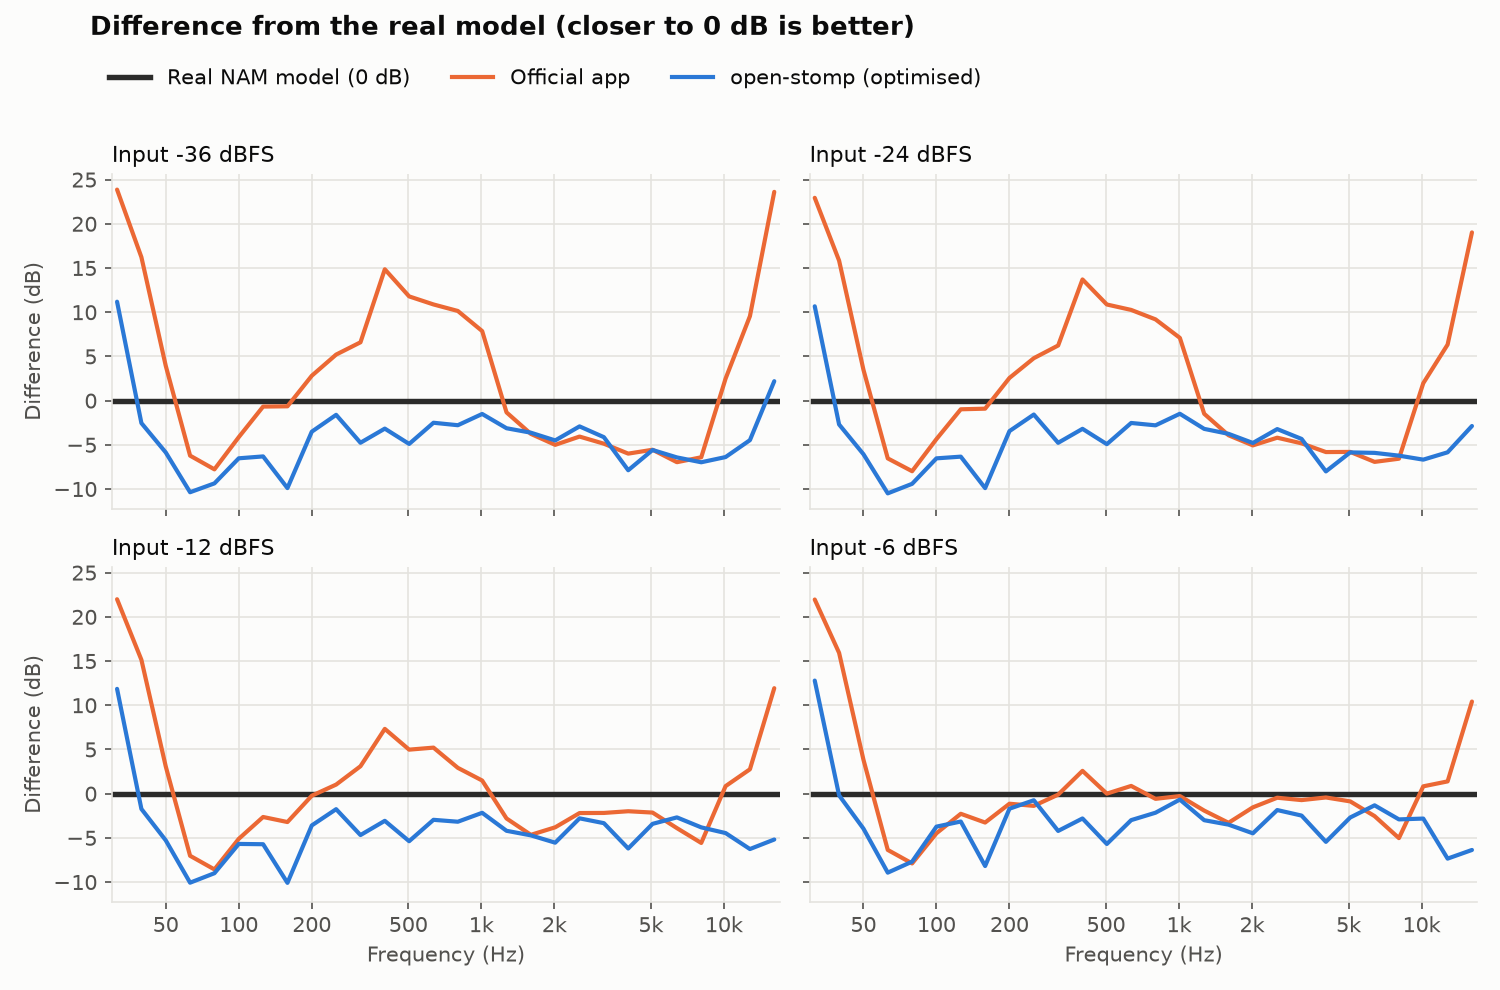
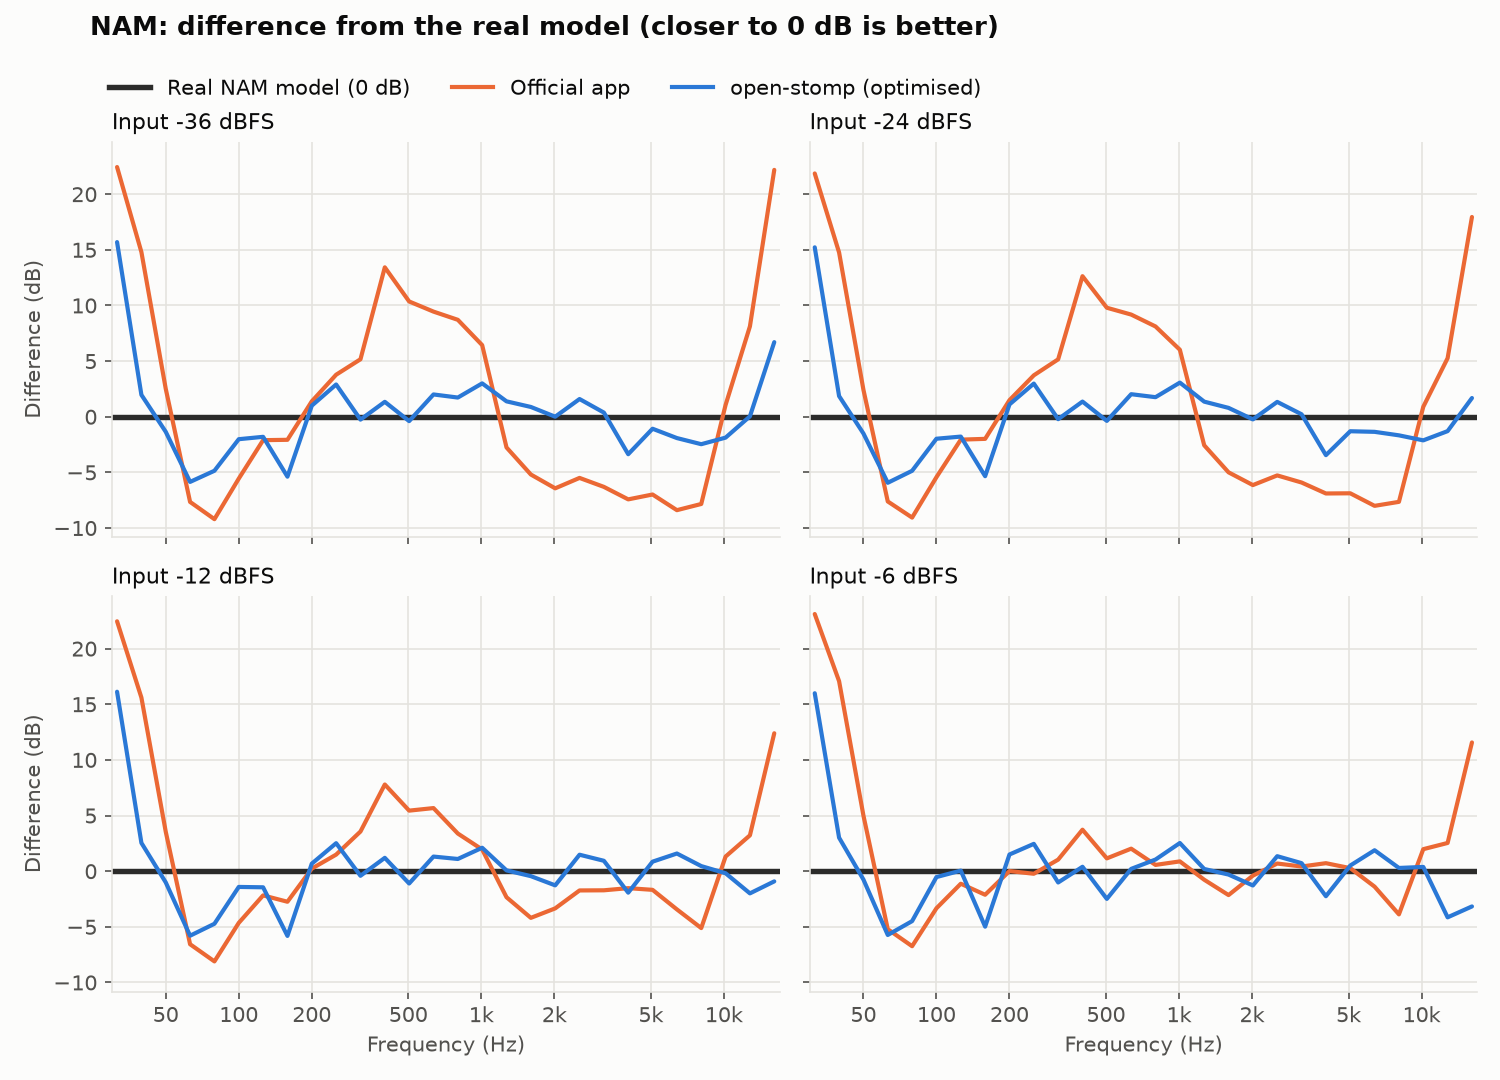
README: level-matched NAM graphs; IR graphs against the full IR file
The NAM difference graph showed open-stomp ~4 dB low everywhere: a level offset
from recordings made before import normalisation, not a tone error. Every curve
is now level-matched over 100 Hz - 8 kHz. Adds the IR re-amp results (two
Ampeg SVT cab IRs) against the full IR files.

diff --git a/tools/pedalsim/readme_plots.py b/tools/pedalsim/readme_plots.py
@@ -1,8 +1,12 @@
-"""Frequency-response graphs for the README: the real NAM model, the official app's conversion and
-open-stomp's optimised conversion, as recorded from the pedal.
+"""Frequency-response graphs for the README, as recorded from the pedal:
+  NAM: the real model, the official app's conversion and open-stomp's optimised conversion;
+  IR:  the full IR file in software, the official app's upload and open-stomp's optimised upload.
+
+Every curve is level-matched to the reference over 100 Hz - 8 kHz, so the graphs compare tone only. Import
+level is handled separately (NAM normalisation, the IR gain rule); the offsets that were removed are printed.
 
 usage: readme_plots.py            (re-extract from the local recordings, then plot)
-       readme_plots.py --cached   (plot from results/svt_g10_responses.json, no recordings needed)
+       readme_plots.py --cached   (plot from results/*.json, no recordings needed)
 """
 import json, sys
 from pathlib import Path
@@ -13,13 +17,24 @@ import matplotlib.pyplot as plt
 
 HERE = Path(__file__).resolve().parent
 LIB = HERE.parents[1]
-CACHE = HERE / "results" / "svt_g10_responses.json"
+NAM_CACHE = HERE / "results" / "svt_g10_responses.json"
+IR_CACHE = HERE / "results" / "ir_cab_responses.json"
 OUT = LIB / "docs" / "images"
 LEVELS = ("sweep -36", "sweep -24", "sweep -12", "sweep -6")
+# (title, file, official run, open-stomp run) from reamp/ir_cab
+IRS = (("Ampeg 8x10 57 AH", "Ampeg 8x10 57 AH.wav", "A57", "O57"),
+       ("Ampeg SVT Neumann", "Ampeg SVT Neumann.wav", "ANEU", "ONEU"))
+BANDS = 31.5 * 2 ** (np.arange(28) / 3)
+
+
+def third_octaves(h, n=1 << 16):
+    H = np.abs(np.fft.rfft(h, n)) ** 2; f = np.fft.rfftfreq(n, 1 / 48000)
+    return [float(10 * np.log10(np.mean(H[(f >= b / 2 ** (1 / 6)) & (f < b * 2 ** (1 / 6))]) + 1e-30)) for b in BANDS]
+
 
 if "--cached" not in sys.argv:
     sys.path.insert(0, str(HERE))
-    from paths import D
+    from paths import D, IRS as IR_DIR
     F = json.load(open(D + "reamp/svt_g10/nam_features.json"))
     rec = json.load(open(D + "reamp/svt_g10_rust/features.json"))   # recorded in one session
     off = F["offset_db"]
@@ -30,18 +45,36 @@ if "--cached" not in sys.argv:
             "real": {k: (np.array(F["nam"][k]) + off).tolist() for k in LEVELS},
             "official": {k: rec["A1"][k] for k in LEVELS},
             "open-stomp": {k: rec["R1"][k] for k in LEVELS}}
-    CACHE.parent.mkdir(exist_ok=True)
-    json.dump(data, open(CACHE, "w"), indent=1)
-data = json.load(open(CACHE))
-bands = np.array(data["bands"])
+    NAM_CACHE.parent.mkdir(exist_ok=True)
+    json.dump(data, open(NAM_CACHE, "w"), indent=1)
 
-# light surface, recessive axes; real model = neutral reference, then categorical slots 1 and 2
+    from open_stomp import ir
+    R = Path(D) / "reamp" / "ir_cab"
+    data = {"bands": BANDS.tolist(),
+            "note": "1/3-octave response, dB. 'real' is the full IR file at 48 kHz in software; the uploads are "
+                    "the pedal's CAB block measured by sweep (-24 dBFS), divided by the dry rig path.",
+            "irs": {}}
+    for title, wav, a, o in IRS:
+        rate, ch = ir.load_wav(str(Path(IR_DIR) / wav))
+        data["irs"][title] = {"real": third_octaves(np.array(ir.resample(ch[0], rate, 48000), float)),
+                              "official": third_octaves(np.load(R / f"rel_{a}_-24.npy")),
+                              "open-stomp": third_octaves(np.load(R / f"rel_{o}_-24.npy"))}
+    json.dump(data, open(IR_CACHE, "w"), indent=1)
+
+# light surface, recessive axes; the reference = neutral ink, then categorical slots 1 and 2
 SURFACE, INK, MUTED, GRID = "#fcfcfb", "#0b0b0b", "#52514e", "#e4e3df"
-SERIES = [("real", "Real NAM model", "#2b2b2a", 2.6),
-          ("official", "Official app", "#eb6834", 2.0),
-          ("open-stomp", "open-stomp (optimised)", "#2a78d6", 2.0)]
+REF = "#2b2b2a"
+CONVERSIONS = [("official", "Official app", "#eb6834"), ("open-stomp", "open-stomp (optimised)", "#2a78d6")]
 plt.rcParams.update({"font.family": "sans-serif", "font.size": 10, "text.color": INK, "axes.labelcolor": MUTED,
                      "xtick.color": MUTED, "ytick.color": MUTED, "axes.edgecolor": GRID})
+
+
+def matched(bands, y, ref):
+    """y shifted so its mean over 100 Hz - 8 kHz equals the reference's; and the shift."""
+    m = (bands >= 100) & (bands <= 8000)
+    shift = float(np.mean(ref[m] - y[m]))
+    return y + shift, shift
+
 
 def style(ax, title):
     ax.set_facecolor(SURFACE); ax.set_xscale("log"); ax.set_xlim(30, 17000)
@@ -51,33 +84,49 @@ def style(ax, title):
     for s in ("top", "right"): ax.spines[s].set_visible(False)
     ax.set_title(title, loc="left", fontsize=10.5, color=INK)
 
-def figure(diff, path, title, ylabel):
-    fig, axes = plt.subplots(2, 2, figsize=(10, 6.6), sharex=True, sharey=True, facecolor=SURFACE)
-    for ax, k in zip(axes.flat, LEVELS):
-        style(ax, f"Input {k.split()[1]} dBFS")
+
+def figure(panels, bands, path, title, ref_label, diff, shape):
+    """panels: [(panel title, {"real": .., "official": .., "open-stomp": ..})]"""
+    rows, cols = shape
+    fig, axes = plt.subplots(rows, cols, figsize=(10, 3.3 * rows + 0.6), sharex=True, sharey=True,
+                             facecolor=SURFACE, squeeze=False)
+    for ax, (name, curves) in zip(axes.flat, panels):
+        style(ax, name)
+        ref = np.array(curves["real"])
         if diff:
-            ax.axhline(0, color="#2b2b2a", lw=2.6)
-        for key, label, color, lw in SERIES:
-            y = np.array(data[key][k])
-            if diff:
-                if key == "real": continue
-                y = y - np.array(data["real"][k])
-            ax.plot(bands, y, color=color, lw=lw, label=label, solid_capstyle="round")
-    for ax in axes[1]: ax.set_xlabel("Frequency (Hz)")
-    for ax in axes[:, 0]: ax.set_ylabel(ylabel)
-    if diff:
-        handles = [plt.Line2D([], [], color="#2b2b2a", lw=2.6, label="Real NAM model (0 dB)")] + \
-                  [plt.Line2D([], [], color=c, lw=lw, label=l) for key, l, c, lw in SERIES if key != "real"]
-    else:
-        handles = [plt.Line2D([], [], color=c, lw=lw, label=l) for _, l, c, lw in SERIES]
-    fig.legend(handles=handles, loc="upper left", bbox_to_anchor=(0.06, 0.95), ncol=3, frameon=False)
-    fig.suptitle(title, x=0.06, y=0.985, ha="left", fontsize=12.5, color=INK, weight="bold")
-    fig.tight_layout(rect=(0, 0, 1, 0.925))
+            ax.axhline(0, color=REF, lw=2.6)
+        else:
+            ax.plot(bands, ref, color=REF, lw=2.6, solid_capstyle="round")
+        for key, label, color in CONVERSIONS:
+            y, shift = matched(bands, np.array(curves[key]), ref)
+            if diff: print(f"  {path.stem} | {name} | {label}: level shifted {shift:+.1f} dB, "
+                           f"rms error {np.sqrt(np.mean((y - ref) ** 2)):.2f} dB")
+            ax.plot(bands, y - ref if diff else y, color=color, lw=2.0, solid_capstyle="round")
+    for ax in axes[-1]: ax.set_xlabel("Frequency (Hz)")
+    for ax in axes[:, 0]: ax.set_ylabel("Difference (dB)" if diff else "Level (dB, matched)")
+    handles = [plt.Line2D([], [], color=REF, lw=2.6, label=ref_label + (" (0 dB)" if diff else ""))] + \
+              [plt.Line2D([], [], color=c, lw=2.0, label=l) for _, l, c in CONVERSIONS]
+    h = 3.3 * rows + 0.6   # header in inches from the top: title, legend, then the panels
+    fig.text(0.06, 1 - 0.1 / h, title, ha="left", va="top", fontsize=12.5, color=INK, weight="bold")
+    fig.legend(handles=handles, loc="upper left", bbox_to_anchor=(0.06, 1 - 0.4 / h), ncol=3, frameon=False)
+    fig.tight_layout(rect=(0, 0, 1, 1 - 0.6 / h))
     fig.savefig(path, dpi=150, facecolor=SURFACE); plt.close(fig)
     print("wrote", path)
 
+
 OUT.mkdir(parents=True, exist_ok=True)
-figure(False, OUT / "nam-frequency-response.png",
-       "Frequency response on the pedal: Ampeg SVT bass model", "Output level (dB)")
-figure(True, OUT / "nam-frequency-error.png",
-       "Difference from the real model (closer to 0 dB is better)", "Difference (dB)")
+nam = json.load(open(NAM_CACHE))
+nb = np.array(nam["bands"])
+panels = [(f"Input {k.split()[1]} dBFS", {s: nam[s][k] for s in ("real", "official", "open-stomp")}) for k in LEVELS]
+figure(panels, nb, OUT / "nam-frequency-response.png",
+       "NAM on the pedal: Ampeg SVT bass model (levels matched)", "Real NAM model", False, (2, 2))
+figure(panels, nb, OUT / "nam-frequency-error.png",
+       "NAM: difference from the real model (closer to 0 dB is better)", "Real NAM model", True, (2, 2))
+
+irs = json.load(open(IR_CACHE))
+ib = np.array(irs["bands"])
+panels = list(irs["irs"].items())
+figure(panels, ib, OUT / "ir-frequency-response.png",
+       "IR on the pedal: Ampeg SVT cab IRs (levels matched)", "Full IR file", False, (1, 2))
+figure(panels, ib, OUT / "ir-frequency-error.png",
+       "IR: difference from the full IR file (closer to 0 dB is better)", "Full IR file", True, (1, 2))

diff --git a/tools/pedalsim/paths.py b/tools/pedalsim/paths.py
@@ -5,6 +5,7 @@ PEDALSIM_DATA   directory with `reamp/` (recordings, fits, results) and `namconv
                 dumps from open-stomp-manager `tools/namconv`); default: a sibling open-stomp-manager
                 checkout's `analysis/extracted/`
 PEDALSIM_MODEL  the .nam model the analysis was done on (Ampeg SVT "Gain 10 Ultra Lo and Hi MD 421")
+PEDALSIM_IRS    directory with the IRs re-amped in `reamp/ir_cab` (the Ampeg SVT 8x10 capture pack)
 """
 import os
 from pathlib import Path
@@ -14,3 +15,5 @@ D = os.environ.get("PEDALSIM_DATA", str(_ROOT.parent / "open-stomp-manager" / "a
 R = D + "reamp/svt_g10/"
 SVT = os.environ.get("PEDALSIM_MODEL", os.path.expanduser(
     "~/Desktop/Ampeg SVT Classic with 6x10/Ampeg SVT - Gain 10 Ultra Lo and Hi MD 421.nam"))
+IRS = os.environ.get("PEDALSIM_IRS", os.path.expanduser(
+    "~/Desktop/namAndIR/Ampeg SVT - DI - 4x10 - 8x10 - the definitive speaker capture collection(1)"))

diff --git a/README.md b/README.md
@@ -122,20 +122,45 @@ optimises the filters until the simulated pedal sounds like the model. This is t
 `Device::import_nam_file`; it takes about a minute per model.
 
 Re-amped through the pedal and compared with the real model in software (Ampeg SVT bass model; rms error over
-1/3-octave sweep responses, note levels and harmonics; lower is better):
+1/3-octave sweep responses, note levels and harmonics, levels as uploaded before normalisation; lower is better):
 
 | Upload | Frequency response | Note level | Harmonics | Overall |
 |---|---|---|---|---|
 | Official app | 7.96 dB | 9.64 dB | 13.11 dB | **9.32 dB** |
 | open-stomp, optimised (two runs) | 5.56 dB | 4.23 dB | 10.57–11.00 dB | **6.72–6.85 dB** |
 
-![Frequency response on the pedal: the real NAM model, the official app's conversion and open-stomp's](docs/images/nam-frequency-response.png)
+![NAM frequency response on the pedal: the real model, the official app's conversion and open-stomp's](docs/images/nam-frequency-response.png)
 
-![Difference from the real model for both conversions](docs/images/nam-frequency-error.png)
+![NAM: difference from the real model for both conversions](docs/images/nam-frequency-error.png)
 
-The official conversion is off by up to 15–24 dB in the deep bass, the 400 Hz–1 kHz mids at low levels and the top
-octave. open-stomp follows the model's shape much more closely. It is still 3–5 dB quiet overall and short on the
-60–100 Hz resonance, which 512 taps can't fully reach. Details: [docs/05](docs/05-uploads-nam-ir.md#optimised-conversion).
+The graphs compare tone, so each upload is level-matched to the model over 100 Hz–8 kHz. Level is set separately: by
+default an import is normalised to the built-in amps' level. With levels matched, the official conversion is off by
+up to 15–24 dB in the deep bass, the 400 Hz–1 kHz mids at low input levels and the top octave (6.4–9.2 dB rms).
+open-stomp stays within about 5 dB from 50 Hz to 10 kHz (3.7–4.0 dB rms). It is still short on the 60–100 Hz
+resonance, which 512 taps can't fully reach. Details: [docs/05](docs/05-uploads-nam-ir.md#optimised-conversion).
+
+## IR conversion: closer to the real cab than the official app
+
+The pedal plays only the first 384 taps (8 ms) of a user IR. The official app uploads the start of the file as it
+is, cut off at that point, so it loses whatever comes later. That includes the whole IR when the file starts with
+silence. open-stomp designs a 384-tap minimum-phase filter fitted to the full IR's response instead. This is the
+default for `Device::import_ir_file`; it takes about half a second.
+
+Re-amped through the pedal and compared with the full IR file in software (two Ampeg SVT cab IRs, levels matched):
+
+![IR frequency response on the pedal: the full IR file, the official app's upload and open-stomp's](docs/images/ir-frequency-response.png)
+
+![IR: difference from the full IR file for both uploads](docs/images/ir-frequency-error.png)
+
+| IR | Official app | open-stomp, optimised |
+|---|---|---|
+| Ampeg 8x10 57 AH | 3.95 dB rms | **2.36 dB rms** |
+| Ampeg SVT Neumann | 14.97 dB rms, and about 40 dB quieter | **5.87 dB rms** |
+
+The SVT Neumann file starts with 21 ms of silence, so the official upload plays almost none of the cab. Both
+uploads have too much energy below 50 Hz, where the cab rolls off more steeply than 8 ms can follow. open-stomp is
+also a few dB short around 60–100 Hz on that IR. Details: [docs/05](docs/05-uploads-nam-ir.md).
+
 The analysis code is in [`tools/pedalsim`](tools/pedalsim); `readme_plots.py --cached` redraws these graphs.
 
 ## Status
